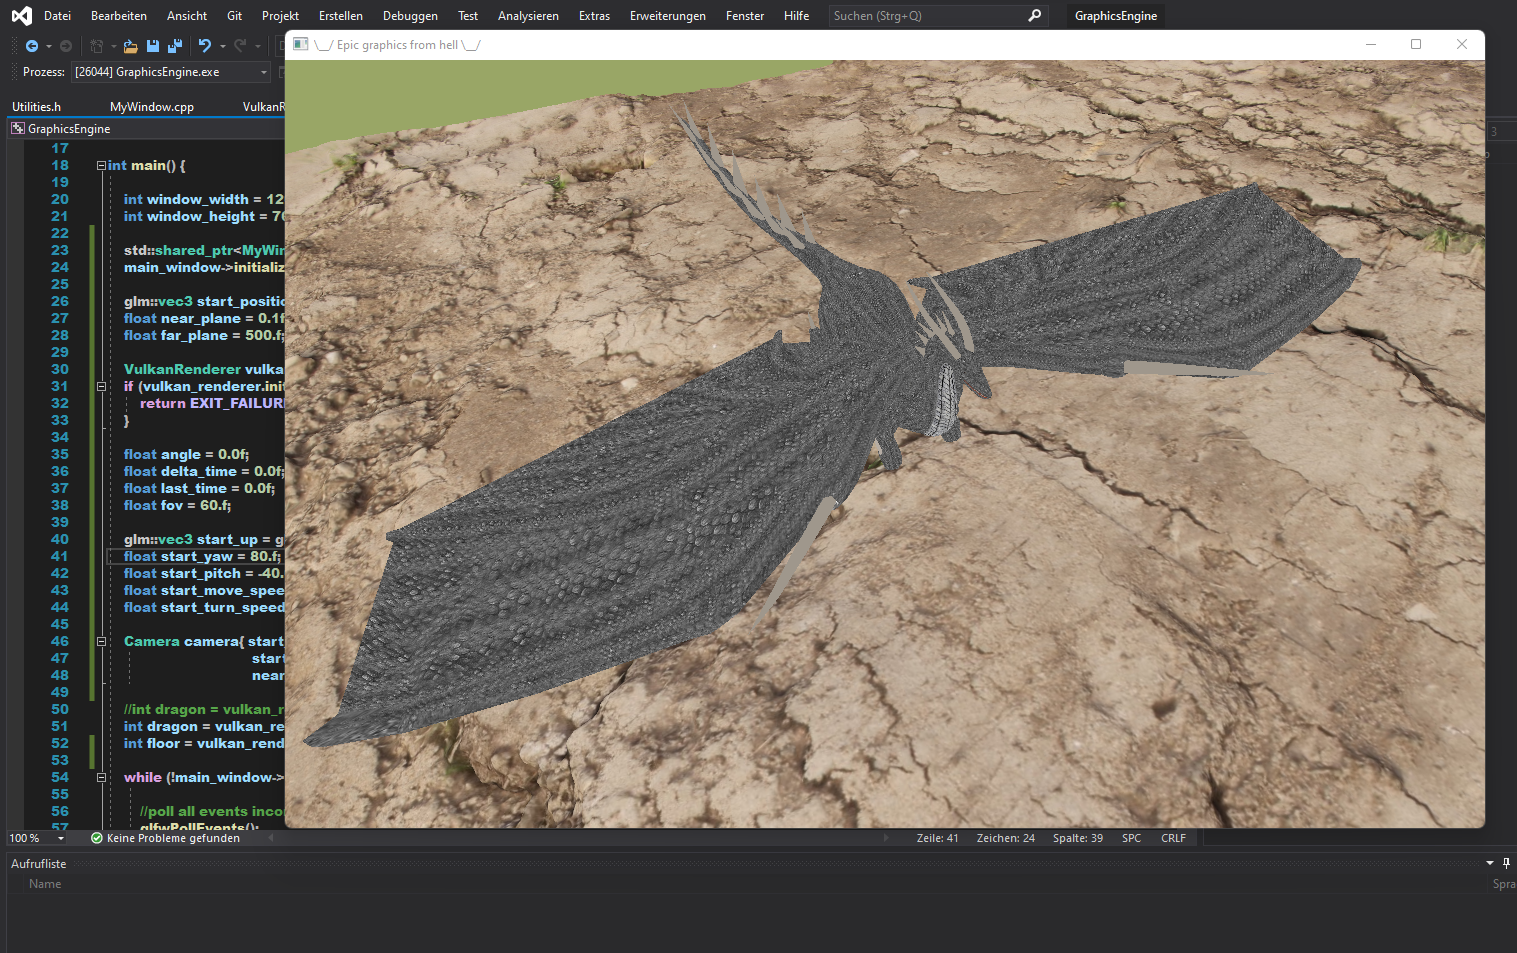
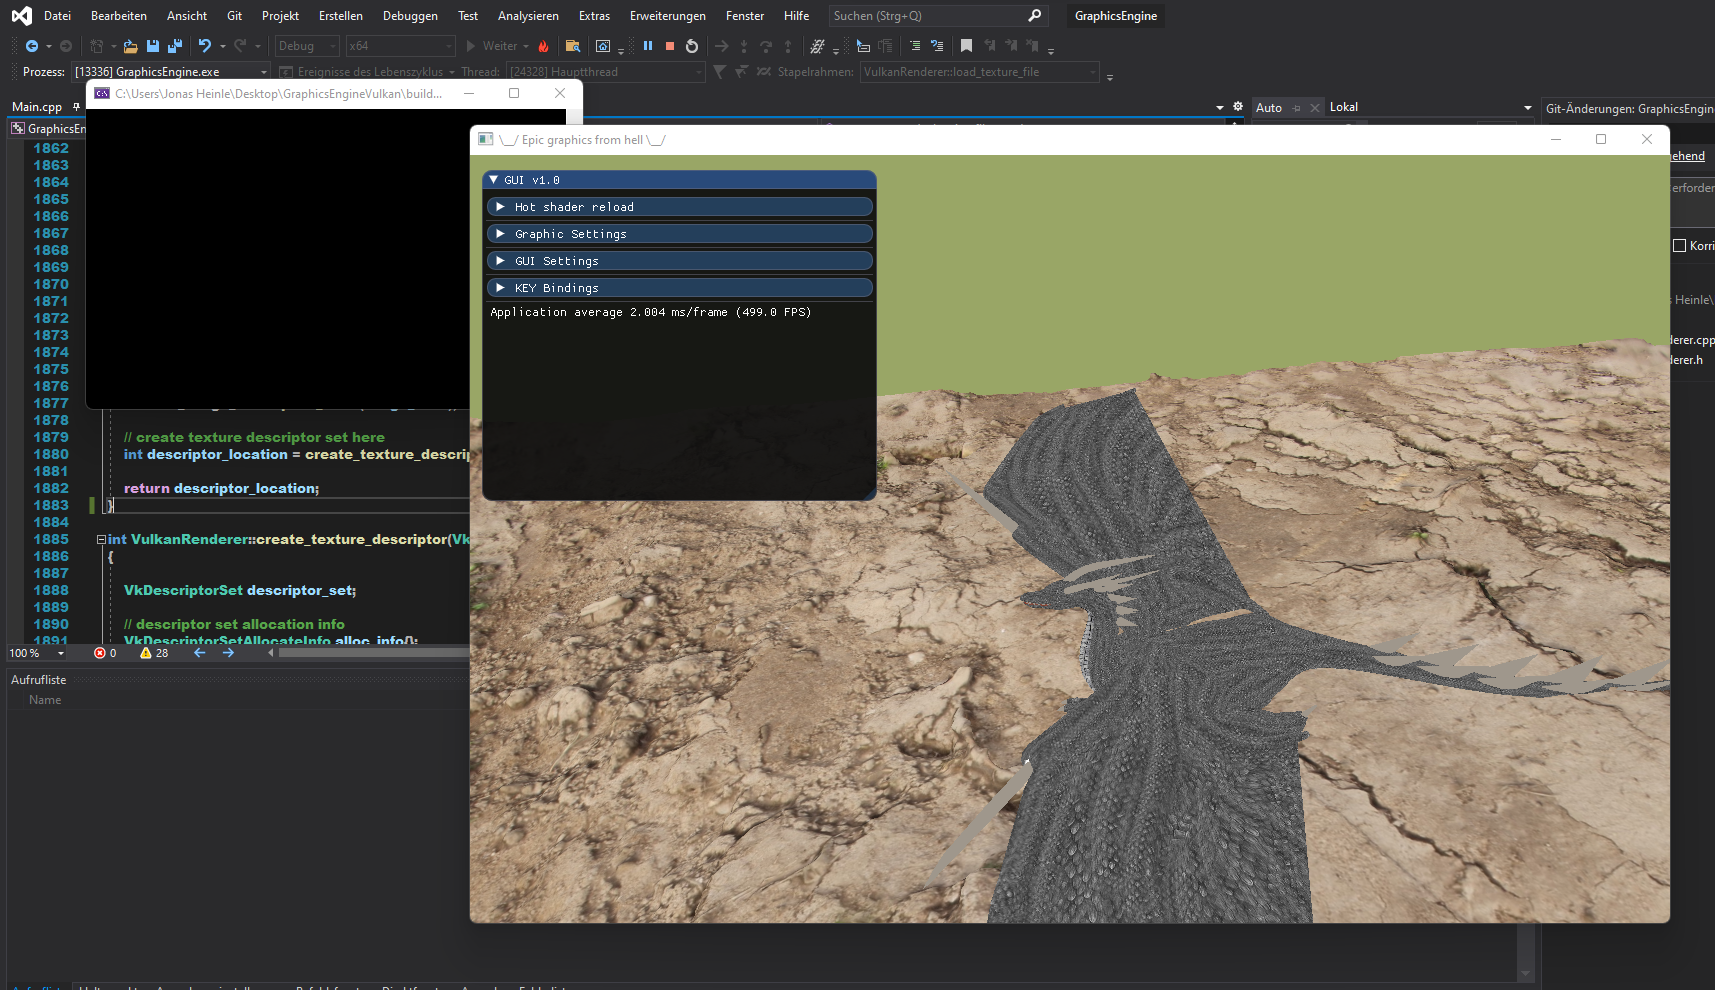
updated screenshot

diff --git a/Src/VulkanRenderer.h b/Src/VulkanRenderer.h
@@ -47,14 +47,6 @@ public:
 	void update_model(int model_id, glm::mat4 new_model);
 	void update_view(glm::mat4 view);
 
-	int create_texture(std::string filename);
-
-	int create_texture_image(std::string filename);
-
-	int create_texture_descriptor(VkImageView texture_image);
-
-	VkDescriptorSet get_texture_descriptor_set(int id);
-
 	void draw();
 
 	void clean_up();
@@ -222,7 +214,9 @@ private:
 	VkImageView create_image_view(VkImage image, VkFormat format, VkImageAspectFlags aspect_flags);
 	VkShaderModule create_shader_module(const std::vector<char>& code);
 
-	
+	int create_texture(std::string filename);
+	int create_texture_image(std::string filename);
+	int create_texture_descriptor(VkImageView texture_image);
 
 	// loader functions
 	stbi_uc* load_texture_file(std::string file_name, int* width, int* height, VkDeviceSize* image_size);

diff --git a/Src/Main.cpp b/Src/Main.cpp
@@ -73,8 +73,6 @@ int main() {
     float directional_light_color[3] = {1.f,1.f,1.f};
     float directional_light_direction[3] = {1.f,1.f,1.f};
 
-    int gui_logo = vulkan_renderer.create_texture("Engine_logo.png");
-
     Camera camera{ start_position, start_up, start_yaw, start_pitch,
                                     start_move_speed, start_turn_speed,
                                     near_plane, far_plane, fov };
@@ -189,9 +187,6 @@ int main() {
 
         ImGui::Text("Application average %.3f ms/frame (%.1f FPS)", 1000.0f / ImGui::GetIO().Framerate, ImGui::GetIO().Framerate);
         //ImGui::ShowDemoWindow();
-        // (void*)(intptr_t)&
-        VkDescriptorSet ds = vulkan_renderer.get_texture_descriptor_set(gui_logo);
-        ImGui::Image((void*)ds, ImVec2(300, 150));
 
         ImGui::End();
 

diff --git a/Src/VulkanRenderer.cpp b/Src/VulkanRenderer.cpp
@@ -1882,11 +1882,6 @@ int VulkanRenderer::create_texture(std::string filename)
 	return descriptor_location;
 }
 
-VkDescriptorSet VulkanRenderer::get_texture_descriptor_set(int id)
-{
-	return sampler_descriptor_sets[id];
-}
-
 int VulkanRenderer::create_texture_descriptor(VkImageView texture_image)
 {
 
